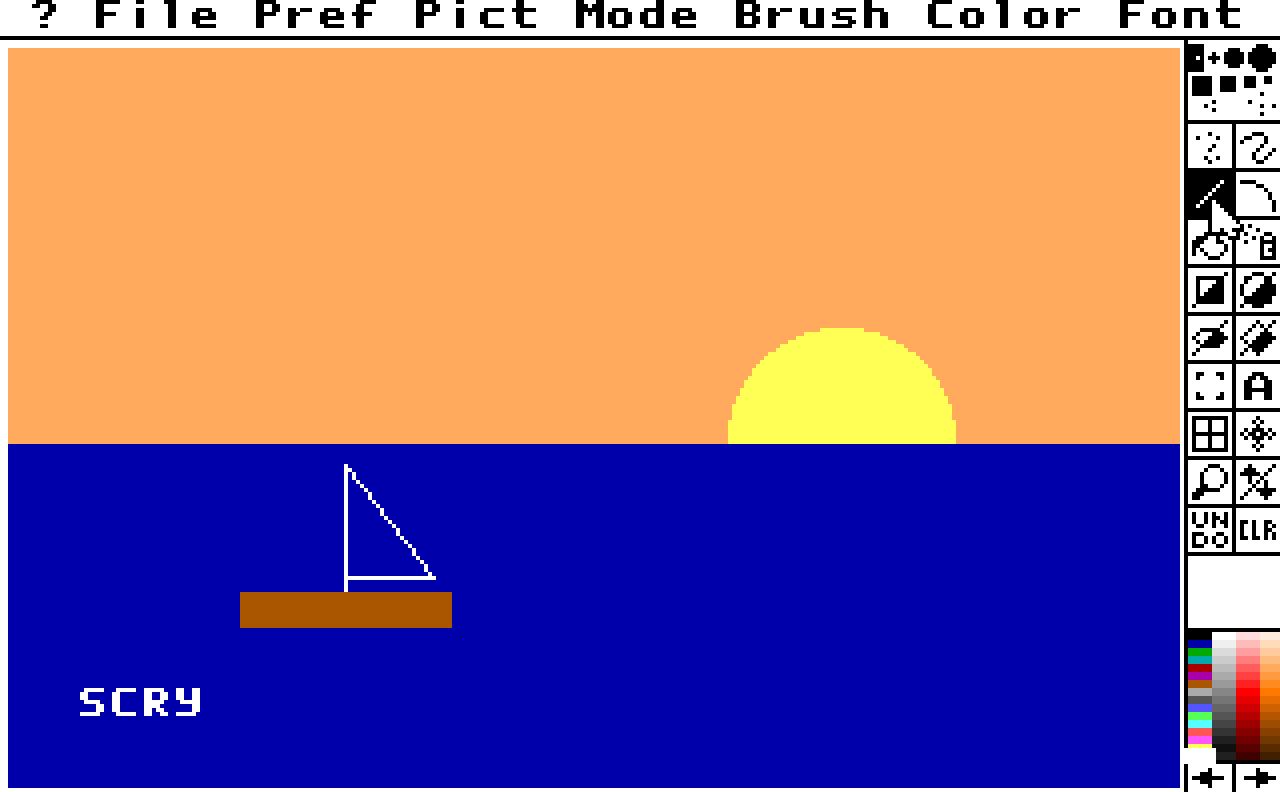
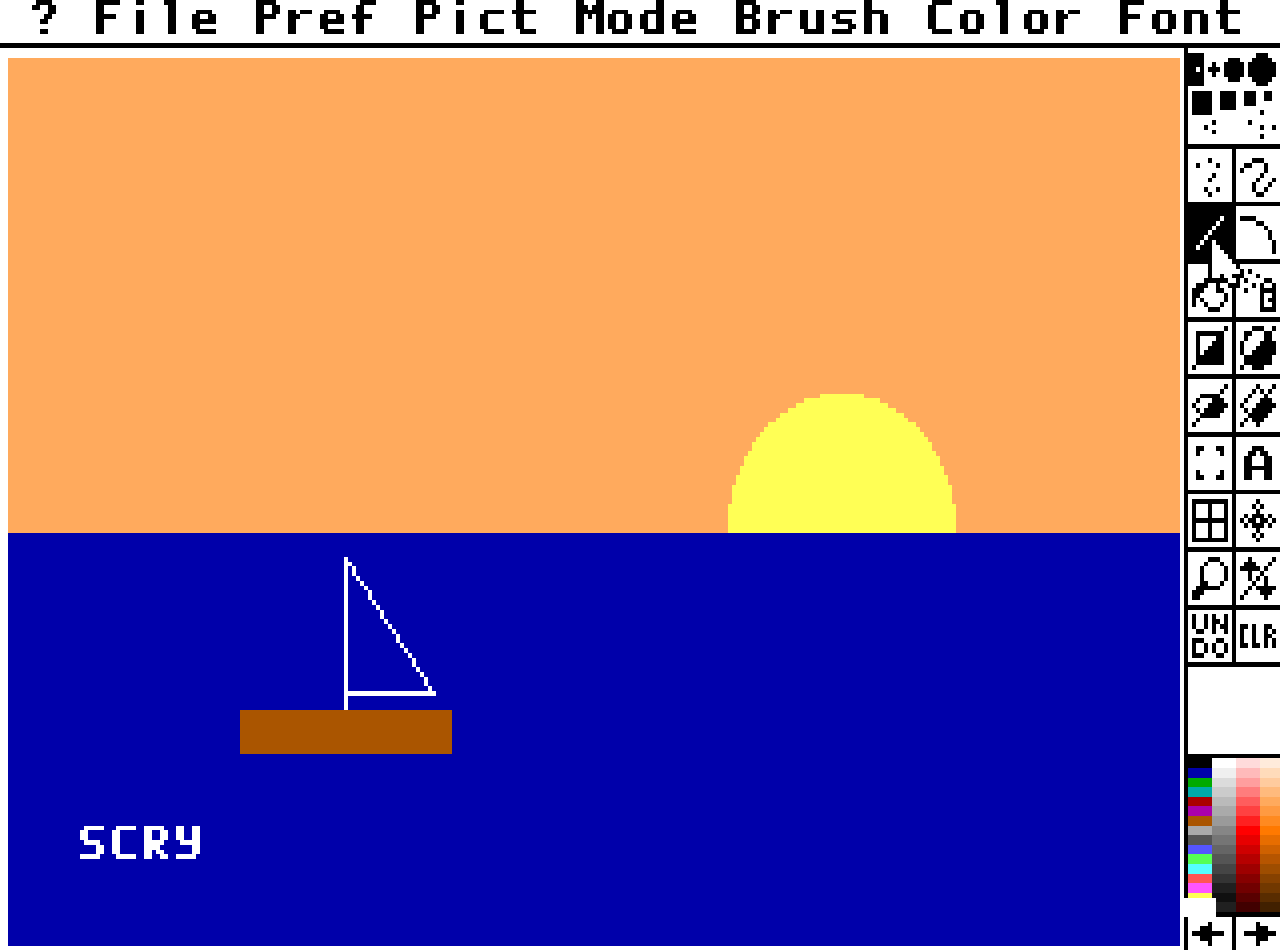
docs(demos/dpaint): record the clip without the overlay's text
The run passed every step with the window behind; the transcript, the
page and the clip come from that run.

diff --git a/demos/dpaint/TRANSCRIPT.md b/demos/dpaint/TRANSCRIPT.md
@@ -43,6 +43,7 @@ Every call of the run with its reply, in order: 23 calls. `<volatile>` stands fo
   "input_port": "<volatile>",
   "background": true,
   "presence": true,
+  "overlay": {"layers": ["edge", "pointer", "record"]},
   "window": "<volatile>",
   "logfile": "./tmp/demos/dpaint/dpaint-e9.log",
   "declarations": {
@@ -243,14 +244,14 @@ Every call of the run with its reply, in order: 23 calls. `<volatile>` stands fo
     }
   ],
   "devs": [
-    {"header": "0071:0048", "attr": "8004", "strat": "0000", "intr": "0000", "name": "NUL"},
-    {"header": "00F9:0000", "attr": "8013", "strat": "FFFF", "intr": "FFFF", "name": "CON"}
+    {"header": "0075:0048", "attr": "8004", "strat": "0000", "intr": "0000", "name": "NUL"},
+    {"header": "0071:0000", "attr": "8013", "strat": "FFFF", "intr": "FFFF", "name": "CON"}
   ],
   "kern": [
     {"seg": "0070", "size_bytes": 16, "what": "DOS_IHSEG"},
-    {"seg": "0071", "size_bytes": 800, "what": "DOS_INFOBLOCK_SEG"},
-    {"seg": "00a3", "size_bytes": 1376, "what": "DOS_SDA_SEG"},
-    {"seg": "00f9", "size_bytes": 64, "what": "DOS_CONDRV_SEG"},
+    {"seg": "0071", "size_bytes": 64, "what": "DOS_CONDRV_SEG"},
+    {"seg": "0075", "size_bytes": 800, "what": "DOS_INFOBLOCK_SEG"},
+    {"seg": "00a7", "size_bytes": 1376, "what": "DOS_SDA_SEG"},
     {"seg": "00fd", "size_bytes": 256, "what": "DOS_CDA_SEG"},
     {"seg": "010d", "size_bytes": 64, "what": "dos.tables.tempdta"},
     {"seg": "0111", "size_bytes": 64, "what": "dos.tables.fcbdelete"},
@@ -630,6 +631,8 @@ Every call of the run with its reply, in order: 23 calls. `<volatile>` stands fo
     {
       "step": 0,
       "op": "send_mouse",
+      "frame_before": 53,
+      "frame_after": 78,
       "reply": {
         "summary": "send_mouse: pointer at 306,77, program's own pointer not read; sent, reaction not checked, 25 frames to frame 78",
         "status": "ok",
@@ -640,6 +643,8 @@ Every call of the run with its reply, in order: 23 calls. `<volatile>` stands fo
     {
       "step": 1,
       "op": "send_mouse",
+      "frame_before": 78,
+      "frame_after": 103,
       "reply": {
         "summary": "send_mouse: pointer at 317,169, program's own pointer not read; sent, reaction not checked, 25 frames to frame 103",
         "status": "ok",
@@ -693,7 +698,9 @@ Every call of the run with its reply, in order: 23 calls. `<volatile>` stands fo
           "why": "no `expect` was given, so the reply says what went into the guest and NOT that the program took it; pass expect=<E9 pattern> to confirm its reaction"
         },
         "session": {"alive": true, "running": false, "altered": false}
-      }
+      },
+      "frame_before": 103,
+      "frame_after": 133
     }
   ],
   "steps_total": 3,
@@ -747,6 +754,8 @@ Every call of the run with its reply, in order: 23 calls. `<volatile>` stands fo
     {
       "step": 0,
       "op": "send_mouse",
+      "frame_before": 133,
+      "frame_after": 158,
       "reply": {
         "summary": "send_mouse: pointer at 317,77, program's own pointer not read; sent, reaction not checked, 25 frames to frame 158",
         "status": "ok",
@@ -757,6 +766,8 @@ Every call of the run with its reply, in order: 23 calls. `<volatile>` stands fo
     {
       "step": 1,
       "op": "send_mouse",
+      "frame_before": 158,
+      "frame_after": 183,
       "reply": {
         "summary": "send_mouse: pointer at 300,189, program's own pointer not read; sent, reaction not checked, 25 frames to frame 183",
         "status": "ok",
@@ -810,7 +821,9 @@ Every call of the run with its reply, in order: 23 calls. `<volatile>` stands fo
           "why": "no `expect` was given, so the reply says what went into the guest and NOT that the program took it; pass expect=<E9 pattern> to confirm its reaction"
         },
         "session": {"alive": true, "running": false, "altered": false}
-      }
+      },
+      "frame_before": 183,
+      "frame_after": 213
     }
   ],
   "steps_total": 3,
@@ -856,6 +869,8 @@ Every call of the run with its reply, in order: 23 calls. `<volatile>` stands fo
     {
       "step": 0,
       "op": "send_mouse",
+      "frame_before": 213,
+      "frame_after": 238,
       "reply": {
         "summary": "send_mouse: pointer at 306,77, program's own pointer not read; sent, reaction not checked, 25 frames to frame 238",
         "status": "ok",
@@ -866,6 +881,8 @@ Every call of the run with its reply, in order: 23 calls. `<volatile>` stands fo
     {
       "step": 1,
       "op": "send_mouse",
+      "frame_before": 238,
+      "frame_after": 263,
       "reply": {
         "summary": "send_mouse: pointer at 300,163, program's own pointer not read; sent, reaction not checked, 25 frames to frame 263",
         "status": "ok",
@@ -919,7 +936,9 @@ Every call of the run with its reply, in order: 23 calls. `<volatile>` stands fo
           "why": "no `expect` was given, so the reply says what went into the guest and NOT that the program took it; pass expect=<E9 pattern> to confirm its reaction"
         },
         "session": {"alive": true, "running": false, "altered": false}
-      }
+      },
+      "frame_before": 263,
+      "frame_after": 293
     }
   ],
   "steps_total": 3,
@@ -972,6 +991,8 @@ Every call of the run with its reply, in order: 23 calls. `<volatile>` stands fo
     {
       "step": 0,
       "op": "send_mouse",
+      "frame_before": 293,
+      "frame_after": 318,
       "reply": {
         "summary": "send_mouse: pointer at 300,173, program's own pointer not read; sent, reaction not checked, 25 frames to frame 318",
         "status": "ok",
@@ -1025,7 +1046,9 @@ Every call of the run with its reply, in order: 23 calls. `<volatile>` stands fo
           "why": "no `expect` was given, so the reply says what went into the guest and NOT that the program took it; pass expect=<E9 pattern> to confirm its reaction"
         },
         "session": {"alive": true, "running": false, "altered": false}
-      }
+      },
+      "frame_before": 318,
+      "frame_after": 348
     }
   ],
   "steps_total": 2,
@@ -1089,6 +1112,8 @@ Every call of the run with its reply, in order: 23 calls. `<volatile>` stands fo
     {
       "step": 0,
       "op": "send_mouse",
+      "frame_before": 348,
+      "frame_after": 373,
       "reply": {
         "summary": "send_mouse: pointer at 302,51, program's own pointer not read; sent, reaction not checked, 25 frames to frame 373",
         "status": "ok",
@@ -1099,6 +1124,8 @@ Every call of the run with its reply, in order: 23 calls. `<volatile>` stands fo
     {
       "step": 1,
       "op": "send_mouse",
+      "frame_before": 373,
+      "frame_after": 398,
       "reply": {
         "summary": "send_mouse: pointer at 300,191, program's own pointer not read; sent, reaction not checked, 25 frames to frame 398",
         "status": "ok",
@@ -1109,6 +1136,8 @@ Every call of the run with its reply, in order: 23 calls. `<volatile>` stands fo
     {
       "step": 2,
       "op": "send_mouse",
+      "frame_before": 398,
+      "frame_after": 428,
       "reply": {
         "summary": "send_mouse: pointer at 86,118, program's own pointer not read; sent, reaction not checked, 30 frames to frame 428",
         "status": "ok",
@@ -1119,6 +1148,8 @@ Every call of the run with its reply, in order: 23 calls. `<volatile>` stands fo
     {
       "step": 3,
       "op": "send_mouse",
+      "frame_before": 428,
+      "frame_after": 458,
       "reply": {
         "summary": "send_mouse: pointer at 108,146, program's own pointer not read; sent, reaction not checked, 30 frames to frame 458",
         "status": "ok",
@@ -1172,7 +1203,9 @@ Every call of the run with its reply, in order: 23 calls. `<volatile>` stands fo
           "why": "no `expect` was given, so the reply says what went into the guest and NOT that the program took it; pass expect=<E9 pattern> to confirm its reaction"
         },
         "session": {"alive": true, "running": false, "altered": false}
-      }
+      },
+      "frame_before": 458,
+      "frame_after": 488
     }
   ],
   "steps_total": 5,
@@ -1219,6 +1252,8 @@ Every call of the run with its reply, in order: 23 calls. `<volatile>` stands fo
     {
       "step": 0,
       "op": "send_mouse",
+      "frame_before": 488,
+      "frame_after": 513,
       "reply": {
         "summary": "send_mouse: pointer at 314,98, program's own pointer not read; sent, reaction not checked, 25 frames to frame 513",
         "status": "ok",
@@ -1229,6 +1264,8 @@ Every call of the run with its reply, in order: 23 calls. `<volatile>` stands fo
     {
       "step": 1,
       "op": "send_mouse",
+      "frame_before": 513,
+      "frame_after": 538,
       "reply": {
         "summary": "send_mouse: pointer at 20,180, program's own pointer not read; sent, reaction not checked, 25 frames to frame 538",
         "status": "ok",
@@ -1239,6 +1276,8 @@ Every call of the run with its reply, in order: 23 calls. `<volatile>` stands fo
     {
       "step": 2,
       "op": "send_keys",
+      "frame_before": 538,
+      "frame_after": 588,
       "reply": {
         "summary": "send_keys (guest): sent, reaction not checked, 50 frames to frame 588",
         "status": "ok",
@@ -1295,7 +1334,9 @@ Every call of the run with its reply, in order: 23 calls. `<volatile>` stands fo
         "screen": "paint",
         "identified_at_stop": 2,
         "session": {"alive": true, "running": false, "altered": false}
-      }
+      },
+      "frame_before": 588,
+      "frame_after": 613
     }
   ],
   "steps_total": 4,

diff --git a/demos/dpaint/README.md b/demos/dpaint/README.md
@@ -41,8 +41,7 @@ does not take your keyboard; `--watch` brings it in front, for when you want to 
 - `--transcript PATH` moves the whole transcript; the run's other files go beside it.
 - `--update-readme` rewrites this page's generated parts, `TRANSCRIPT.md`, `screen.png` and
   `loop.webp`, from a run where every step passed. It needs ffmpeg and `img2webp` on your
-  `PATH`, and Pillow and numpy (the `decorate` extra), which draw the border and the pointer
-  over the loop.
+  `PATH`.
 
 Exit codes: 0 every step passed, 1 a step failed, 2 a usage error, 3 nothing was demonstrated.
 That last one is no program directory, another build of it, a DOSBox-X without relative motion or a
